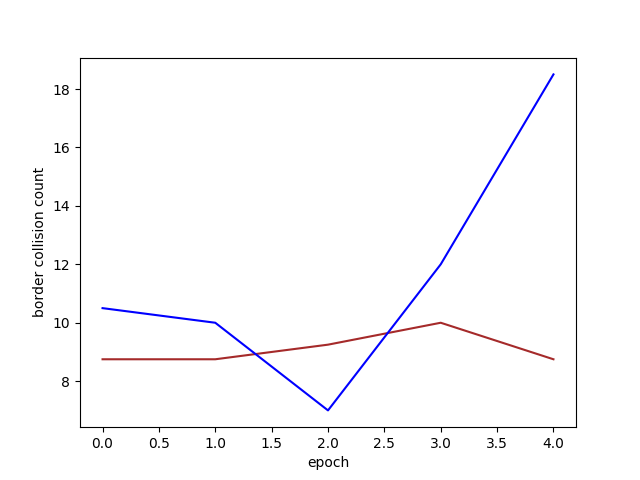
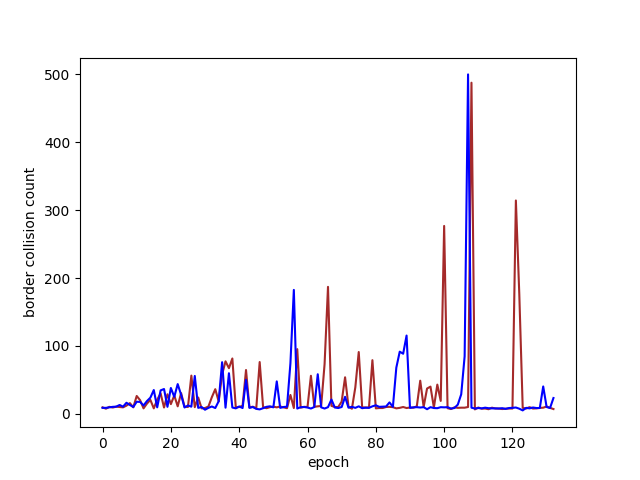
update plots and README.md

diff --git a/README.md b/README.md
@@ -72,6 +72,8 @@ In the next figure the reward graph can be seen, the brown line represents the a
 
 As the border collision count is interesting as well it was also captured and plotted.
 The goal was to have an average collision count of 5.
+As seen in the following plot both agents learnt to avoid borders in certain epochs.
+The exploration rate goes down with each epoch, so agents rely more on their neuronal network in latter epochs.
 
 ![figure](result/dqn-border-collision-result.png)
 
